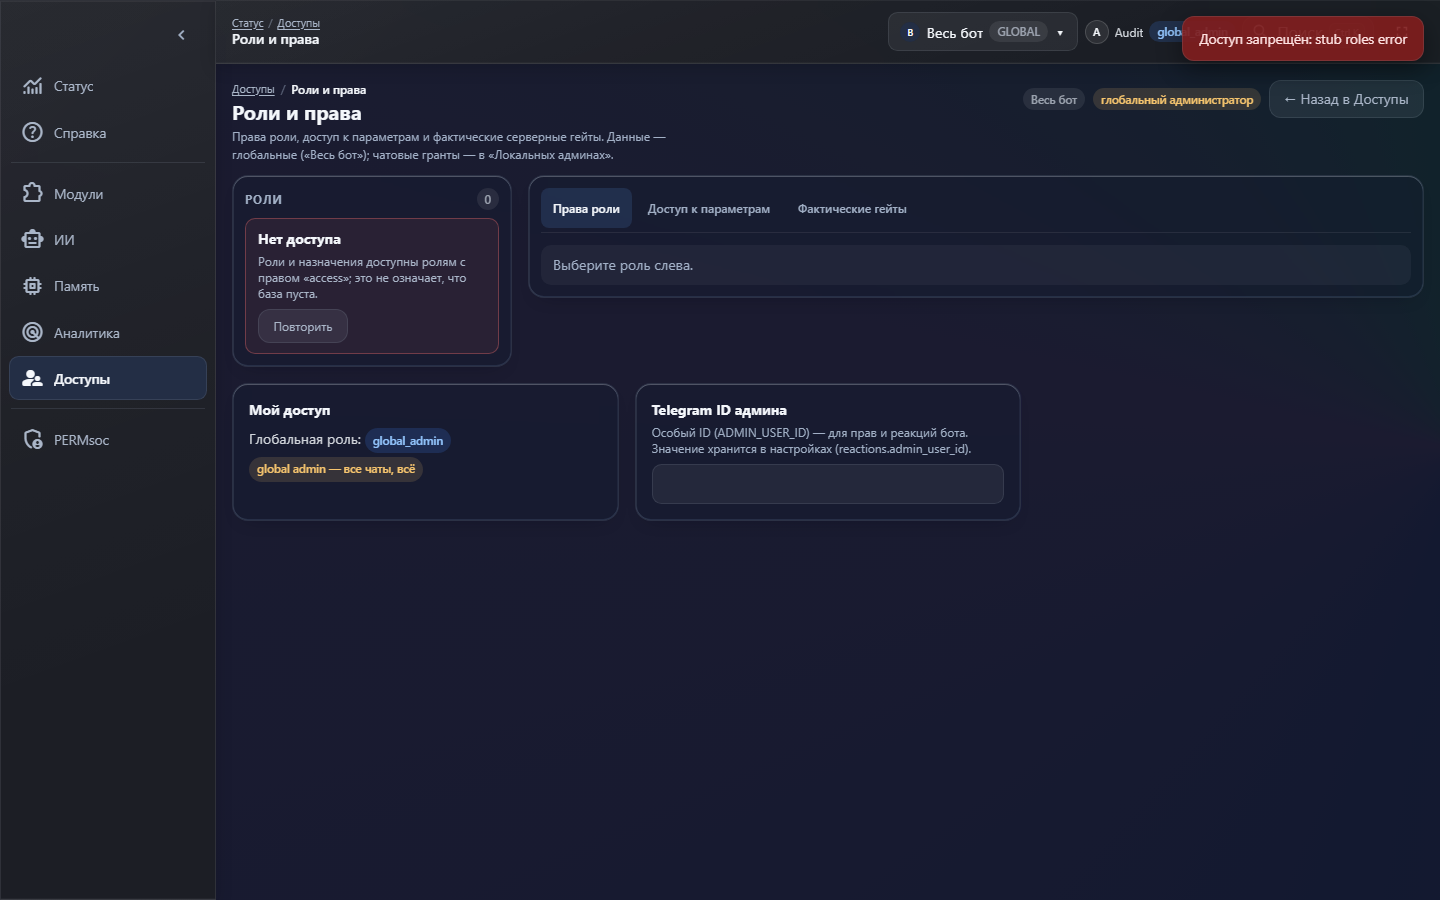
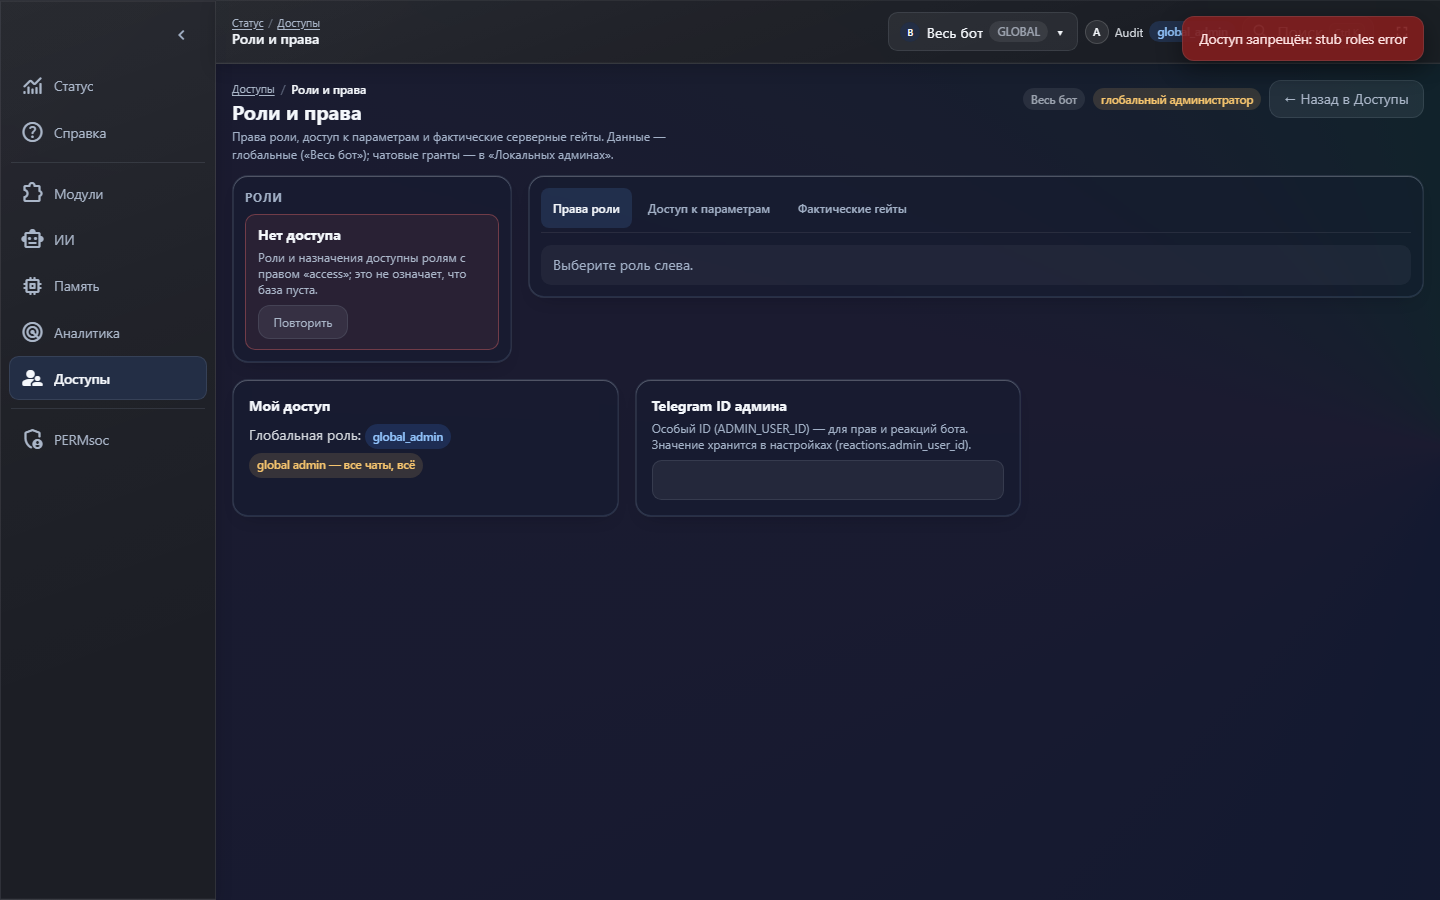
evidence(acl): M4C C1 r1 fixes — F01/F02/F03 RED and GREEN
Candidate c3 eb305b6fe. Evidence includes:
- implementation.md: c3 section, corrected node 128/131 and Python 320/1 counts;
- tests-node/e2e/python: F01 counters, F02 used-role delete, F03 404 retry;
- red-c334b7578.json + red-c334b7578-node.txt: old-bytes failures;
- Playwright report.json (F02@*, error-* with null counters, retryRolesDelta=1),
  non-global 403 screenshot, updated 7-viewport screenshots;
- Browser Use 1440/390: roles=5, custom_used delete disabled with visible note,
  rename enabled, menu 44px, no h-scroll.

No product/API/DDL changes in this commit.

diff --git a/plans/features/mod-acl-ux-01/evidence/m4c/c1/implementation.md b/plans/features/mod-acl-ux-01/evidence/m4c/c1/implementation.md
@@ -7,6 +7,8 @@
 - Кандидат C1.1: **`422dbbd38`** — страница/чтение, strict matrix, cold 503.
 - Кандидат C1.2: **`de80a6cb9`** — whole-object preservation, superuser
   read-only, editor tests.
+- Кандидат c3 (R1): **`eb305b6fe`** — F01/F02/F03 fixes (honest counters,
+  used-role delete, 404 retry).
 - Evidence-коммит: следующий commit этого каталога (`plans/.../m4c/c1/**`).
 - APP_VERSION **2.58.228 не менялся**; версия/релиз — отдельно (2.58.229).
 
@@ -15,10 +17,10 @@
 | req_id | Статус C1 | Факт |
 |---|---|---|
 | MAC-S0-10 | C1 | Страница вместо модалки; гранулярные права сохранены; `saveRole` не теряет гранты |
-| MAC-S4-175 | C1 | 401/403 — карточка причины + безопасная часть `/api/access/me`; 403 ≠ пустая БД |
+| MAC-S4-175 | C1 + R1 fix | 401/403 — карточка причины + безопасная часть `/api/access/me`; 403 ≠ пустая БД; F01: в error-состояниях нет счётчика `0` |
 | MAC-S5-293 | C1 | Все параметры/группы из API: 622/121; count из данных, без хардкода |
-| MAC-S5-294 | C1 | 403 отдельной карточкой, не пустой таблицей |
-| MAC-S8-501 | C1 (reassign → C3) | Роли/тип/wildcard/custom + «кому назначена» по `/api/admins`; superuser read-only; last-admin/used-role 409 показываются; чатовые гранты — ссылка на `#/access/local`; **новых assign/reassign путей нет** |
+| MAC-S5-294 | C1 + R1 fix | 403/503 отдельной карточкой; F01: нет «0 из 0» рядом с ошибкой |
+| MAC-S8-501 | C1 + R1 fix | Роли/тип/wildcard/custom + «кому назначена»; superuser read-only; last-admin/used-role 409; F02: delete занятой custom-роли disabled с видимой причиной, rename доступен; **новых assign/reassign путей нет** |
 | MAC-S8-502 | C1 | 9 CATEGORIES + `access` + `chat_lore`; `chat_lore` из `role.permissions`, не из tree |
 | MAC-S8-503 | C1 | 7 фактических `ACTIONS_TREE` + read-only «только владелец» без фиктивных id |
 | MAC-S8-504 | C1 | Дерево **Раздел → Модуль → Группа → Параметр**; owner из boot `/api/config.modules` (`_f4Registry`), fallback честный; поиск RU+key |
@@ -30,7 +32,7 @@
 | MAC-S15-09 | C1 evidence | Legacy `param_permissions` не удалялся; авто-миграций/чистки нет |
 | MAC-S15-13 | C1-чтение | Видны view/edit и secret-бейдж; negative view≠edit — C3 |
 | MAC-S15-1-08 | C1 | Поиск по загруженным данным, 0 запросов на символ |
-| MAC-S8-SEC-01 | C1 mobile/errors | 401/403/404/503 разными карточками; секреты не раскрываются; h-overflow 0; negative initData/RBAC — C3 |
+| MAC-S8-SEC-01 | C1 + R1 fix | 401/403/404/503 разными карточками; F01: счётчики только из успешных данных; секреты не раскрываются; h-overflow 0; negative initData/RBAC — C3 |
 | MAC-AC-13 | C1 page | Страница/группы/поиск; «путь разрешения» — C2 |
 
 **Частичные:** MAC-S8-501 (reassign C3), MAC-S8-522 (chat override C2),
@@ -108,19 +110,40 @@ Builder не имеет права ходить на прод (SSH/LLM/прод 
 
 ## 5. Проверки
 
-- `tests-node.txt`: 2/2 новых node PASS; полный `tests/js` 127/130,
-  3 падения воспроизведены на base (не регрессия); B1 **138/0**,
+- `tests-node.txt`: 2/2 новых node PASS; полный `tests/js/*.js` 128/131
+  (3 падения воспроизведены на base — не регрессия); B1 **138/0**,
   B2 **92/0**, B3 **131/131** (`regression-b1/b2/b3.json`).
   `admin` — superuser и в C1 read-only (save недоступен); сохранение
   `wildcard` проверено на custom wildcard-роли — той же функции `saveRole`
   (и отдельно на superuser: запрос не отправляется).
-- `tests-python.txt`: focused **276 passed**, новый файл 17 тестов;
-  `py_compile` OK.
+- `tests-python.txt`: focused **320 passed, 1 pre-existing fail**
+  (`test_r4_custom_modules_removed`, воспроизведён на base); новый файл
+  17 тестов; `py_compile` OK.
 - `tests-e2e.txt`: `tools/ui_mod_acl_m4c1_roles_e2e.py` **PASS 0 failures**
-  на 1920/1440/1280/768/390/360/320 + error-сценарии; `shots/report.json`.
+  на 1920/1440/1280/768/390/360/320 + error/non-global/used-role сценарии;
+  `shots/report.json`.
 - `browseruse.json`: реальный Chrome, desktop/mobile, switcher/⋯/touch,
   screenshots `browseruse-*.png`.
 - `node --check web/app.js` — OK.
+
+## 5b. R1 corrections (c3 `eb305b6fe`)
+
+- **F01** — `rolesCounterText()` скрывает бейдж ролей при 401/403/404/503;
+  `matrixCounterText()` скрывает «N из M» при ошибке и для non-global.
+  В error-состояниях нет `РОЛИ 0` / `0 из 0`.
+- **F02** — отдельный `canDeleteRole`: usage>0 (или неизвестные
+  назначения) → delete disabled; `canEditRole` (rename) остаётся;
+  `roleDeleteBlockedReason` показывает причину в `data-roles-usage-note`;
+  серверный DELETE 409 не менялся.
+- **F03** — 404 tree: primary `data-roles-retry-list` вызывает
+  `retryRolesList()` → `loadRoles()`; tree-retry остаётся вторичным.
+- **RED** на `c334b7578`: `red-c334b7578.json` (served 503 → «0 из 0»,
+  403 ролей → «РОЛИ 0», old canEditRole без usage, 404 без retry-list) и
+  `red-c334b7578-node.txt` (новый node-тест падает: нет
+  `rolesCounterText`). **GREEN** на `eb305b6fe`: новые node/e2e и
+  `shots/report.json` (`F02@*`, `error-*`, `retryRolesDelta=1`).
+- Границы: только `web/app.js`/`web/index.html` + тесты/evidence; без
+  API/DDL/флагов/`APP_VERSION`, C2/C3 не тронуты.
 
 ## 6. Ограничения / RFL
 
